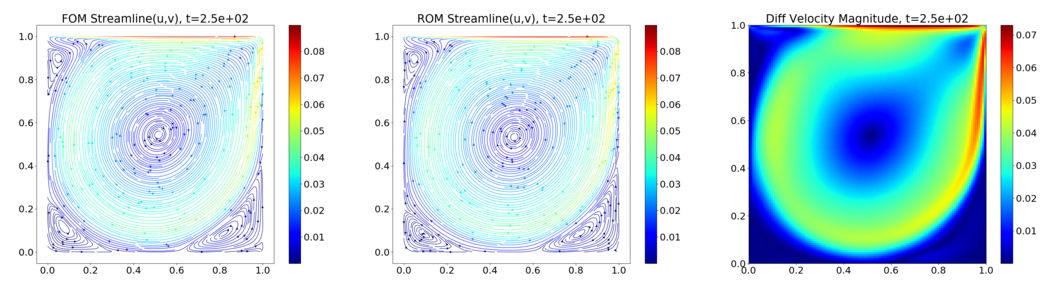
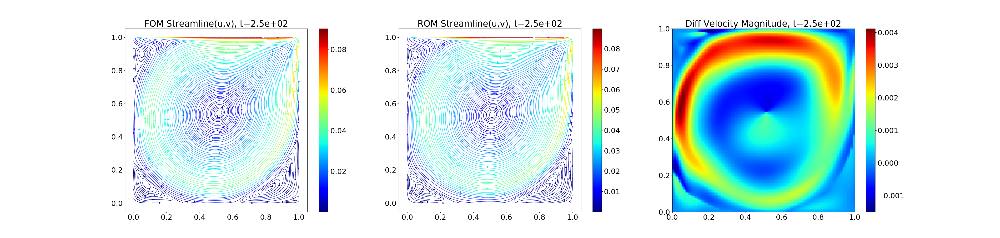
correction to libROM example figure and plotting script

diff --git a/Examples/2D/NavierStokes2D/LidDrivenCavity_libROM_DMD/plotStreamlines.py b/Examples/2D/NavierStokes2D/LidDrivenCavity_libROM_DMD/plotStreamlines.py
@@ -128,7 +128,7 @@ if solver_inp_data['op_overwrite'] == 'no':
       sol2d_rom_u = sol2d_rom[1,:,:] / sol2d_rom[0,:,:]
       sol2d_rom_v = sol2d_rom[2,:,:] / sol2d_rom[0,:,:]
       sol2d_rom_speed = np.sqrt(np.square(sol2d_rom_u)+np.square(sol2d_rom_v))
-      diff_speed = sol2d_fom_speed = sol2d_rom_speed
+      diff_speed = sol2d_fom_speed - sol2d_rom_speed
       plot_fom = axes[0].streamplot(x2d.T, y2d.T, sol2d_fom_u.T, sol2d_fom_v.T, 
                                     color=sol2d_fom_speed.T, 
                                     linewidth=linewidth,
@@ -208,7 +208,7 @@ else:
     sol2d_rom_u = sol2d_rom[1,:,:] / sol2d_rom[0,:,:]
     sol2d_rom_v = sol2d_rom[2,:,:] / sol2d_rom[0,:,:]
     sol2d_rom_speed = np.sqrt(np.square(sol2d_rom_u)+np.square(sol2d_rom_v))
-    diff_speed = sol2d_fom_speed = sol2d_rom_speed
+    diff_speed = sol2d_fom_speed - sol2d_rom_speed
     plot_fom = axes[0].streamplot(x2d.T, y2d.T, sol2d_fom_u.T, sol2d_fom_v.T, 
                                   color=sol2d_fom_speed.T, 
                                   linewidth=linewidth,
